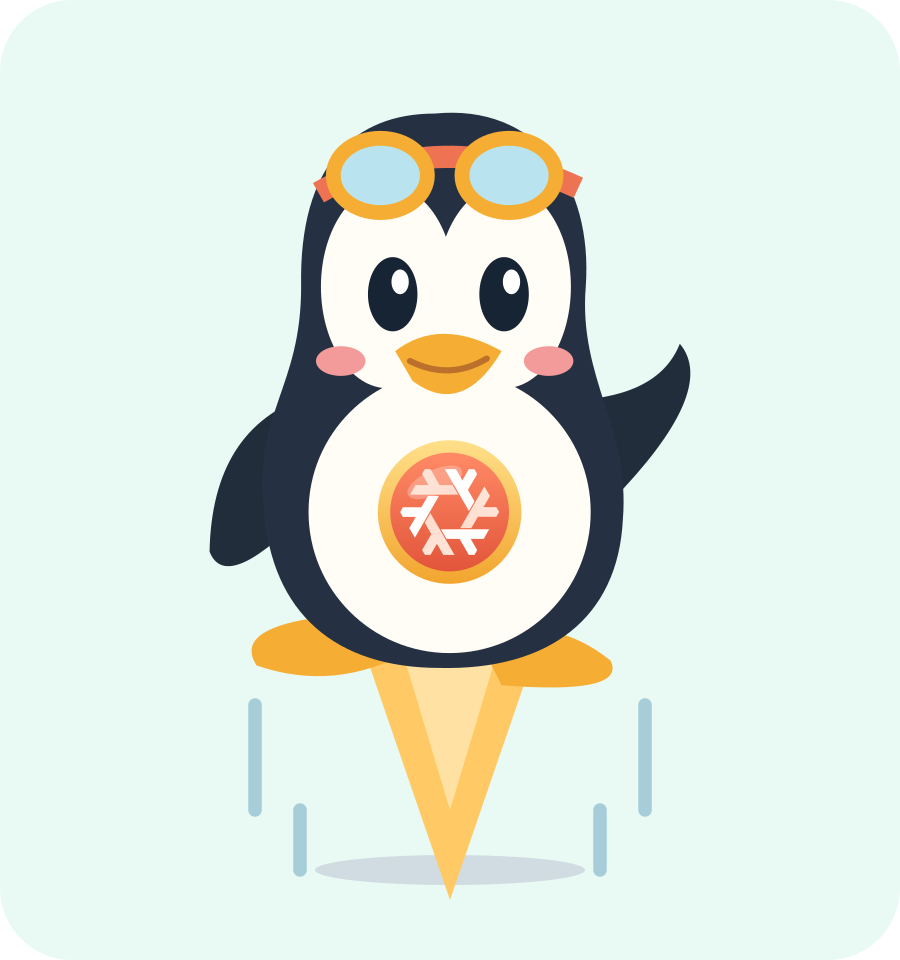
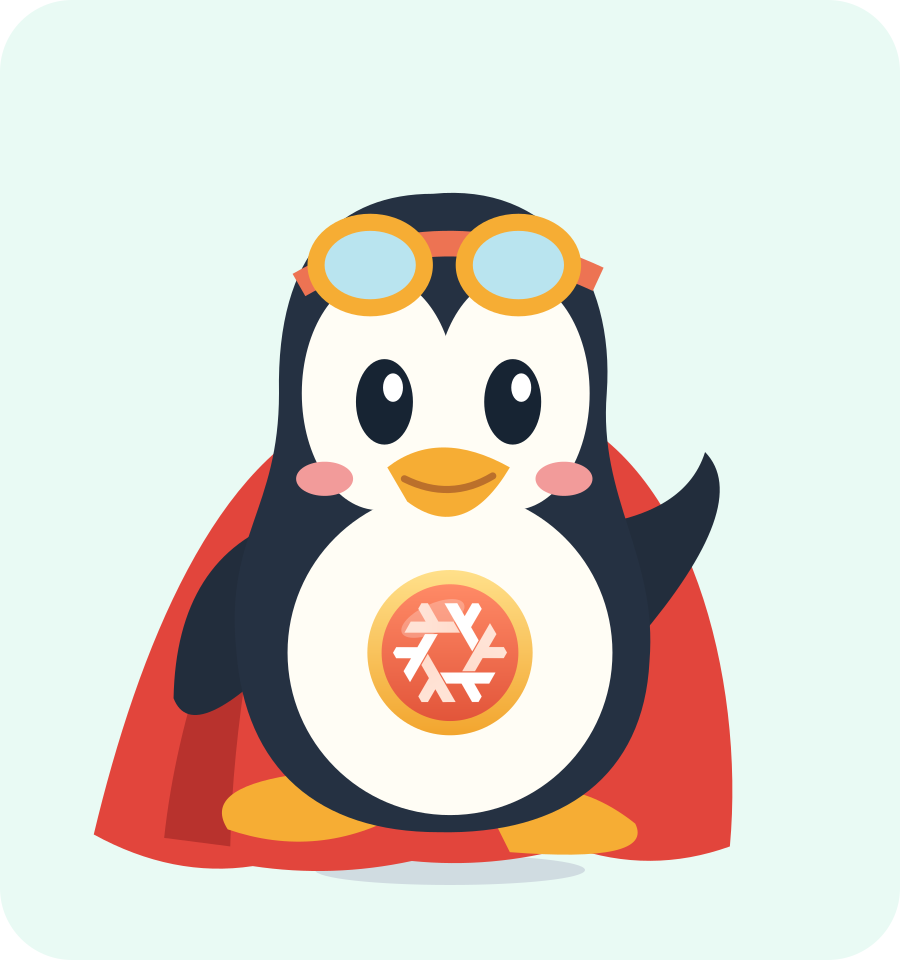
feat(mascot): Zip waves hello in a cape, hovering like a superhero
The rocket flame made Zip look like a missile rather than a hero. Zip
now wears a fluttering cape, waves at whoever is looking, and floats
gently above a shadow that shrinks as he rises, on every resting screen.

diff --git a/shell/zoomies_shell/ui.py b/shell/zoomies_shell/ui.py
@@ -86,7 +86,7 @@ def avatar(kid, size="big"):
     return label
 
 
-# Zip's poses: lift-off for resting screens, flying for when something starts.
+# Zip's poses: waving hello on resting screens, flying for when something starts.
 POSES = {"rest": "zip.svg", "fly": "zip-flying.svg"}
 
 
